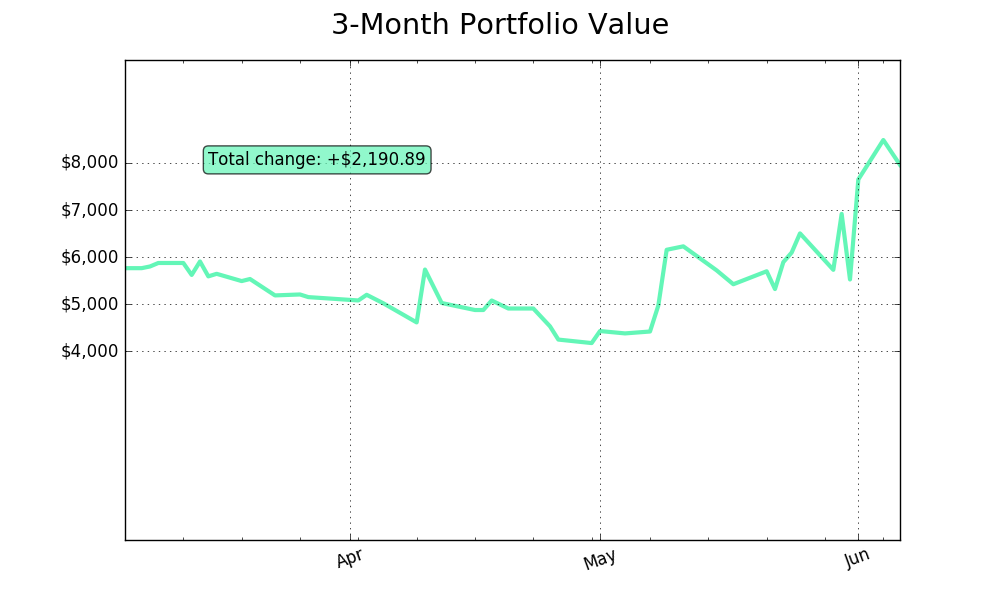
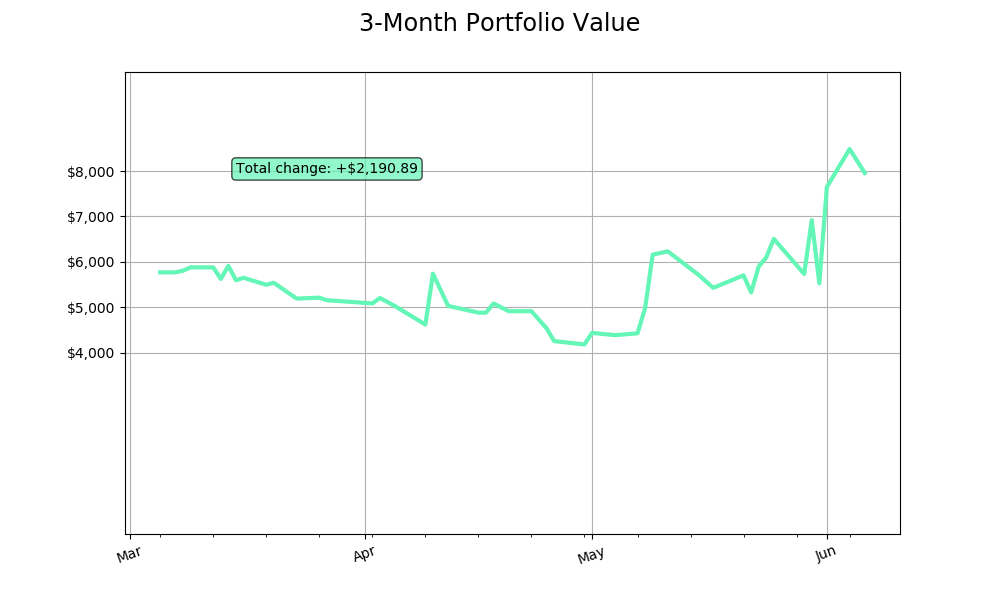
added historical plot

diff --git a/templates/email_template.html b/templates/email_template.html
@@ -181,7 +181,7 @@
                 <!-- HEADLINE -->
                 <tr>
                   <td bgcolor="#c4efff" align="center" style="padding: 30px 30px 30px 30px; border-radius: 4px 4px 4px 4px; color: #666666; font-family: 'Lato', Helvetica, Arial, sans-serif; font-size: 18px; font-weight: 400; line-height: 25px;" >
-                    <h2 style="font-size: 20px; font-weight: 400; color: #111111; margin: 0;">Historical plot will go here.</h2>
+                    <img alt="2" src= "cid:daily_historical_portfolio" width=500px>
                   </td>
                 </tr>
             </table>
@@ -235,7 +235,7 @@
                 <td bgcolor="#f4f4f4" align="left" style="padding: 0px 30px 0px 30px; color: #666666; font-family: 'Lato', Helvetica, Arial, sans-serif; font-size: 14px; font-weight: 400; line-height: 18px;" >
                   <p style="margin: 0;">To-do list for this email template:</p>
                   <ul>
-                    <li><img src="{{ url_for('static', filename='img/daily_historical_portfolio.jpg') }}" alt="daily_historical_portfolio"></li>
+                    <li>Historical plot will be displayed in the email.</li>
                   </ul>
                 </td>
               </tr>

diff --git a/email_status.py b/email_status.py
@@ -1,18 +1,19 @@
-<<<<<<< HEAD
 import smtplib
 from os.path import basename
 from email.mime.application import MIMEApplication
 from email.mime.multipart import MIMEMultipart
 from email.mime.text import MIMEText
+from email.mime.image import MIMEImage
 from email.utils import COMMASPACE, formatdate
 import os
-from jinja2 import Environment, FileSystemLoader
+from jinja2 import Template, FileSystemLoader, Environment
 import datetime as dt
 import numpy as np
 import math
 import matplotlib.pyplot as plt
 import matplotlib.dates as mdates
 import matplotlib.ticker as mtick
+from flask import url_for
 import pylab
 import sqlite3
 from Robinhood import Robinhood
@@ -105,9 +106,15 @@ class EmailStatus(object):
 
         THIS_DIR = os.path.dirname(os.path.abspath(__file__))
         j2_env = Environment(loader=FileSystemLoader(THIS_DIR), trim_blocks=True)
-        html = j2_env.get_template('email_template.html').render(AMOUNT = '${0:,.2f}'.format(self.equity * percent_owned))
+        daily_img = 'static/img/daily_historical_portfolio.png'
+        html = j2_env.get_template('templates/email_template.html').render(AMOUNT = '${0:,.2f}'.format(self.equity * percent_owned), daily_img=daily_img)
         html = MIMEText(html, 'html')
         msg.attach(html)
+
+        with open(daily_img, 'rb') as f:
+            img = MIMEImage(f.read())
+        img.add_header('Content-ID', '<daily_historical_portfolio>')
+        msg.attach(img)
 
         self.server.sendmail('takaomattpython@gmail.com', email_address, msg.as_string())
         self.server.quit()
@@ -128,138 +135,5 @@ class EmailStatus(object):
 
 
 E = EmailStatus()
-E.create_daily_historical_value_plot()
+#E.create_daily_historical_value_plot()
 E.send_emails()
-=======
-import smtplib
-from os.path import basename
-from email.mime.application import MIMEApplication
-from email.mime.multipart import MIMEMultipart
-from email.mime.text import MIMEText
-from email.utils import COMMASPACE, formatdate
-import os
-from jinja2 import Environment, FileSystemLoader
-import datetime as dt
-import numpy as np
-import math
-import matplotlib.pyplot as plt
-import matplotlib.dates as mdates
-import matplotlib.ticker as mtick
-import pylab
-import sqlite3
-from Robinhood import Robinhood
-
-class EmailStatus(object):
-
-    def __init__(self):
-        self.home_path = os.path.abspath(os.getcwd())
-        if 'ec2-user' in self.home_path:
-            self.home_path = '/home/ec2-user/capit-vita'
-        self.par_path = os.path.dirname(self.home_path) + '/'
-        self.home_path = self.home_path + '/'
-
-        with open(os.pardir + '/auth/takaomattpython.txt') as f:
-            email_password = f.read()
-
-        with open(os.pardir + '/auth/robinhood.txt') as f:
-            data = f.read().split('\n')
-            RH_username = data[0]
-            RH_password = data[1]
-
-        self.my_trader = Robinhood()
-        self.my_trader.login(username=RH_username, password=RH_password)
-        self.equity = self.my_trader.equity() + 900
-
-        '''
-        self.server = smtplib.SMTP('smtp.gmail.com', 587)
-        self.server.starttls()
-        self.server.login('takaomattpython@gmail.com', email_password)
-        '''
-        # frequency: daily, weekly, monthly, quarterly, never
-        self.users = {'matt':['Matt', 0.6187, 'takaomatt@gmail.com', 'weekly'],
-                      'tim':['Tim', 0.0836, 'takaotim@gmail.com', 'weekly'],
-                      'mazy':['Mazy', 0.0431, 'mazyyap@gmail.com', 'weekly'],
-                      'andrew':['Andrew', 0.2545, 'takaoandrew@gmail.com', 'weekly']}
-
-
-    def create_daily_historical_value_plot(self):
-
-        conn = sqlite3.connect('portfolio_history.db')
-        cursor = conn.cursor()
-
-        equities = [x[0] for x in cursor.execute('SELECT equity FROM portfolio_history ORDER BY portfolio_date').fetchall()]
-        dates = [dt.datetime.strptime(x[0], '%Y-%m-%d') for x in cursor.execute('SELECT portfolio_date FROM portfolio_history ORDER BY portfolio_date').fetchall()]
-        dates = mdates.date2num(dates)
-        upper_limit = float(max(equities)) * 1.2
-        total_change = float(equities[-1]) - float(equities[0])
-        if total_change >= 0:
-            total_change = '+${0:,.2f}'.format(total_change)
-        else:
-            total_change = '-${0:,.2f}'.format(total_change)
-
-        fig, ax = plt.subplots(figsize = (10, 6))
-        fig.suptitle('3-Month Portfolio Value', size='xx-large')
-
-        ax.plot_date(dates, equities, '-', color='#63F6B7', lw=3)
-        props = dict(boxstyle='round', facecolor='#63F6B7', alpha=0.7)
-        ax.text(dates[7], float(equities[-1]), 'Total change: {}'.format(total_change), bbox=props)
-
-        mondays = mdates.WeekdayLocator(mdates.MONDAY)
-        months = mdates.MonthLocator()
-        monthsFmt = mdates.DateFormatter("%b")
-        ax.xaxis.set_major_locator(months)
-        ax.xaxis.set_major_formatter(monthsFmt)
-        ax.xaxis.set_minor_locator(mondays)
-        ax.xaxis.set_minor_formatter(plt.NullFormatter())
-        y_lower = math.floor(min(equities) / 1000) * 1000
-        y_upper = math.ceil(max(equities) / 1000) * 1000
-        increment = (y_upper - y_lower) / 5
-        ax.set_yticks(np.arange(y_lower, y_upper, increment))
-        ax.yaxis.set_major_formatter(mtick.StrMethodFormatter('${x:,.0f}'))
-        ax.set_ylim(0, upper_limit)
-        for tick in ax.get_xticklabels():
-            tick.set_rotation(20)
-        ax.grid(True)
-
-        if False:
-            plt.show()
-        else:
-            pylab.savefig('static/img/daily_historical_portfolio.png', facecolor='w', edgecolor='w')
-            plt.close()
-
-
-    def send_email(self, name, percent_owned, email_address):
-
-        msg = MIMEMultipart()
-        msg['Date'] = formatdate(localtime=True)
-        now = dt.datetime.now()
-        msg['Subject'] = 'Your Portfolio Status for {}-{}-{}'.format(now.year, now.month, now.day)
-
-        THIS_DIR = os.path.dirname(os.path.abspath(__file__))
-        j2_env = Environment(loader=FileSystemLoader(THIS_DIR), trim_blocks=True)
-        html = j2_env.get_template('email_template.html').render(AMOUNT = '${0:,.2f}'.format(self.equity * percent_owned))
-        html = MIMEText(html, 'html')
-        msg.attach(html)
-
-        self.server.sendmail('takaomattpython@gmail.com', email_address, msg.as_string())
-        self.server.quit()
-
-    def send_emails(self):
-
-        if True:
-            self.users = {'matt':['Matt', 0.6187, 'takaomatt@gmail.com', 'weekly']}
-
-        for user in self.users:
-            contents = self.users[user]
-            # weekly = every monday
-            # monthly = first monday of every month
-            # quarterly = first monday of January, April, July, October
-            if contents[3] == 'weekly':
-                self.send_email(contents[0], contents[1], contents[2])
-
-
-
-E = EmailStatus()
-E.create_daily_historical_value_plot()
-E.send_emails()
->>>>>>> 5b47c5b8c307a27d672fe847e5e2e2f749e6219c

diff --git a/Robinhood.py b/Robinhood.py
@@ -84,10 +84,9 @@ class Robinhood:
     #GET DATA
     ##############################
 
-<<<<<<< HEAD
     def investment_profile(self):
         self.session.get(self.endpoints['investment_profile'])
-=======
+
     def get_API_summary(self):
         res = self.session.get("https://api.robinhood.com/")
         res = res.json()
@@ -97,7 +96,6 @@ class Robinhood:
         res = self.session.get(self.endpoints['investment_profile'])
         res = res.json()
         return res
->>>>>>> f39383da6b3e9b61a5e169df8d441f0979e3d8ed
 
     def instruments(self, stock=None):
         res = self.session.get(self.endpoints['instruments'], params={'query':stock.upper()})
